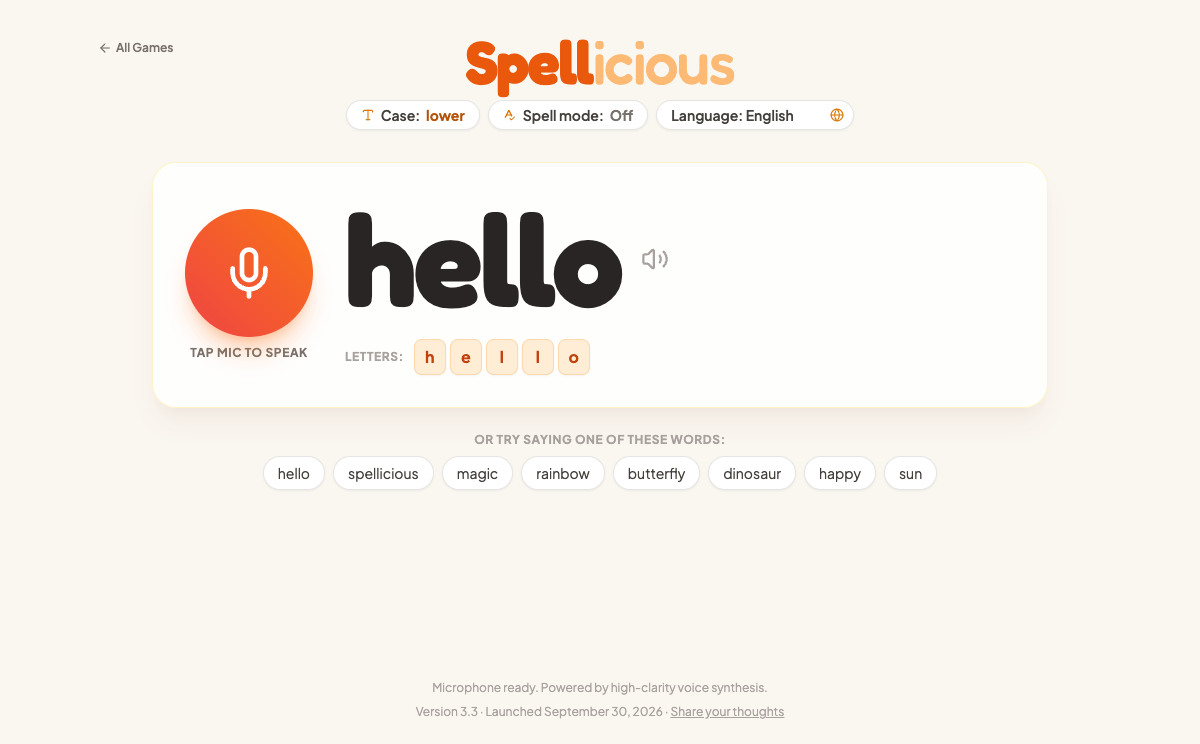
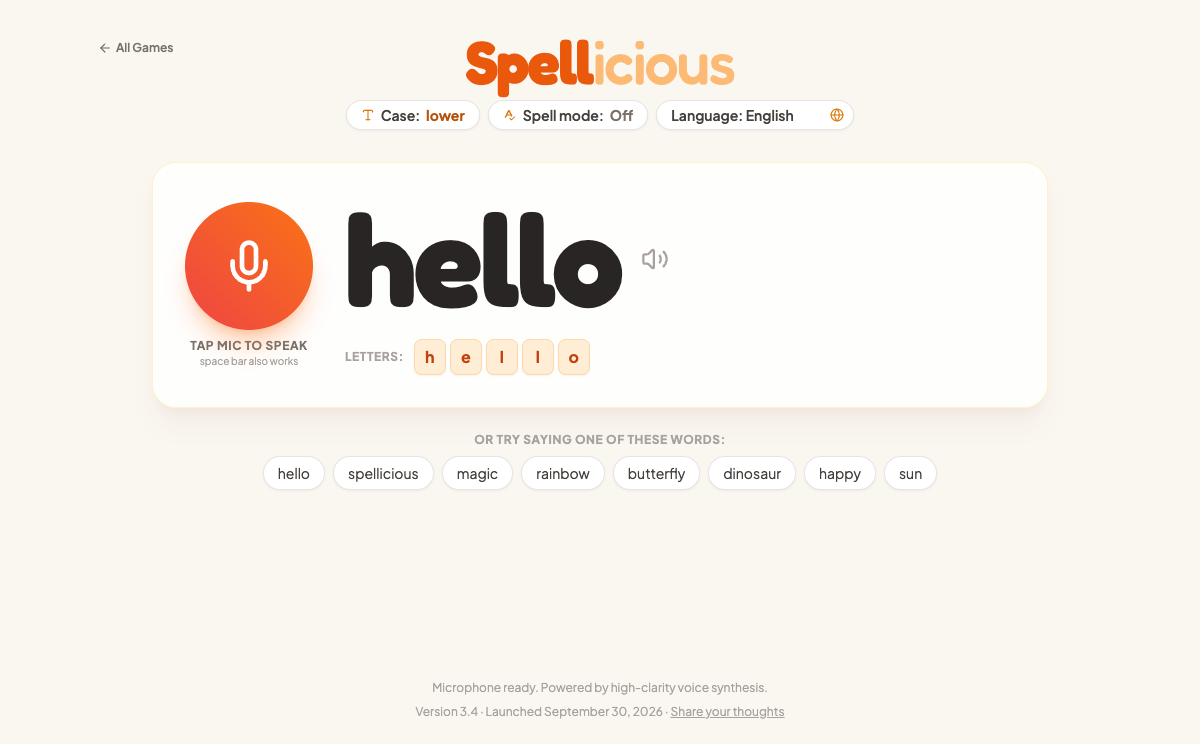
Add mic keyboard hint

Changed region(s): [[0.1542, 0.4019, 0.2775, 0.4946], [0.1542, 0.2473, 0.2467, 0.4019], [0.2467, 0.3091, 0.2775, 0.3401]]

diff --git a/spellicious/index.html b/spellicious/index.html
@@ -118,7 +118,10 @@
                             <span class="sound-wave-bar w-1.5 bg-white rounded-full" style="animation-delay: 0.4s"></span>
                         </div>
                     </button>
-                    <span id="micLabel" class="text-xs font-bold text-stone-500 uppercase tracking-wider text-center mt-2">Tap Mic to Speak</span>
+                    <div id="micLabel" class="text-center mt-2">
+                        <span id="micLabelText" class="block text-xs font-bold text-stone-500 uppercase tracking-wider">Tap Mic to Speak</span>
+                        <span class="block text-[10px] font-medium text-stone-400 lowercase tracking-normal">space bar also works</span>
+                    </div>
                 </div>
 
                 <!-- Right Side: Spoken Word Display & Interactive Letters -->
@@ -158,7 +161,7 @@
     <!-- Footer Status -->
     <footer class="w-full max-w-4xl mx-auto mt-auto text-center text-xs text-stone-400 pt-4">
         <p id="statusText">Microphone ready. Powered by high-clarity voice synthesis.</p>
-        <p class="mt-2">Version 3.3 · Launched <time datetime="2026-09-30">September 30, 2026</time> · <a class="underline" href="../feedback/?game=spellicious&amp;v=3.3">Share your thoughts</a></p>
+        <p class="mt-2">Version 3.4 · Launched <time datetime="2026-09-30">September 30, 2026</time> · <a class="underline" href="../feedback/?game=spellicious&amp;v=3.4">Share your thoughts</a></p>
     </footer>
 
     <script>
@@ -332,7 +335,7 @@
             const btn = document.getElementById('micBtn');
             const icon = document.getElementById('micIcon');
             const wave = document.getElementById('listeningWave');
-            const label = document.getElementById('micLabel');
+            const label = document.getElementById('micLabelText');
 
             if (isListening) {
                 btn.classList.add('mic-pulse', 'ring-4', 'ring-red-400');
@@ -350,7 +353,7 @@
             const btn = document.getElementById('micBtn');
             const icon = document.getElementById('micIcon');
             const wave = document.getElementById('listeningWave');
-            const label = document.getElementById('micLabel');
+            const label = document.getElementById('micLabelText');
 
             btn.classList.remove('mic-pulse', 'ring-4', 'ring-red-400');
             icon.classList.remove('hidden');

diff --git a/versions/index.html b/versions/index.html
@@ -42,6 +42,7 @@
   <h2>Spellicious</h2>
   <table>
     <tr><th>Version</th><th>Released</th><th>What was in it</th></tr>
+    <tr><td><a href="spellicious/3.4/">3.4 — Mic shortcut hint</a></td><td>Sep 30, 2026</td><td>Adds a small light-grey “space bar also works” hint beneath the mic label.</td></tr>
     <tr><td><a href="spellicious/3.3/">3.3 — Spacebar mic shortcut</a></td><td>Sep 30, 2026</td><td>Pressing the space bar toggles the microphone when the page itself has focus.</td></tr>
     <tr><td><a href="spellicious/3.2/">3.2 — Cleaner app screen</a></td><td>Sep 30, 2026</td><td>Removes the promotional subtitle lines from the game screen while retaining the app-store title and description metadata.</td></tr>
     <tr><td><a href="spellicious/3.1/">3.1 — Spellicious wordmark</a></td><td>Sep 30, 2026</td><td>Makes “Spell” bold in the standard orange and “icious” lighter and thinner so the pun reads clearly.</td></tr>

diff --git a/index.html b/index.html
@@ -138,7 +138,7 @@ footer { border-top: 1px solid var(--line); padding-top: 20px; color: var(--ink-
       <a class="cover" href="spellicious/" aria-label="Play Spellicious"><img src="spellicious/cover.png" alt="A warm, cream-colored Spellicious game with a microphone and giant letters" width="1200" height="744"></a>
       <div class="info">
         <h2>Spellicious</h2>
-        <p class="version"><b>Version 3.3</b> · Launched <time datetime="2026-09-30">September 30, 2026</time></p>
+        <p class="version"><b>Version 3.4</b> · Launched <time datetime="2026-09-30">September 30, 2026</time></p>
         <p>Say a word and see it appear in giant letters. Tap each letter to hear it, switch case or language, and turn on Spell mode to hear the word spelled aloud.</p>
         <ul class="tags">
           <li>Phonics</li><li>Reading</li><li>Speech</li><li>Syllables</li>

diff --git a/spellicious/HANDOFF.md b/spellicious/HANDOFF.md
@@ -1,8 +1,9 @@
 # Spellicious — Handoff Note
 
-## Update — Version 3.3
+## Update — Version 3.4
 
-- **Live:** Spellicious 3.3 is the current game at /spellicious/.
+- **Live:** Spellicious 3.4 is the current game at /spellicious/.
+- **Mic hint:** A smaller light-grey “space bar also works” line appears beneath “Tap Mic to Speak”.
 - **Keyboard:** Pressing the space bar toggles the microphone when a form control is not focused.
 - **Screen:** The app-store subtitle text is kept in metadata but removed from the visible game screen.
 - **Wordmark:** “Spell” is bold in the standard orange; “icious” is thinner and lighter for a distinct visual pun.
@@ -27,9 +28,9 @@
 - Current page: spellicious/index.html
 - Current URL: https://magicmakersfamily.github.io/games/spellicious/
 - Compatibility redirect: speller/index.html → ../spellicious/
-- Current version: 3.3
+- Current version: 3.4
 - Launch date: 2026-09-30
-- Release tag: spellicious-v3.3
-- Frozen archive: versions/spellicious/3.3/
+- Release tag: spellicious-v3.4
+- Frozen archive: versions/spellicious/3.4/
 
 Before future releases, update the shelf card, README table, feedback game map, versions/index.html, and the frozen release archive. Render spellicious/cover.png, run a browser smoke check, commit, tag, push, and verify the public URL.

diff --git a/README.md b/README.md
@@ -42,7 +42,7 @@ tools/              freeze-version.sh: freeze a tagged release into versions/
 | James’s Nature Aquarium | `aquarium/` | 3.4 | 2026-09-24 |
 | Mid-Autumn Mayhem | `mid-autumn/` | 1.7 | 2026-09-25 |
 | Blow Up (beta) | `blow-up/` | 1.4 | 2026-09-27 |
-| Spellicious | `spellicious/` | 3.3 | 2026-09-30 |
+| Spellicious | `spellicious/` | 3.4 | 2026-09-30 |
 
 Past versions stay playable at https://magicmakersfamily.github.io/games/versions/ (for
 grown-ups; each keeps its own saved games). Every release is also a git tag (`blow-up-v1.3`, …).
